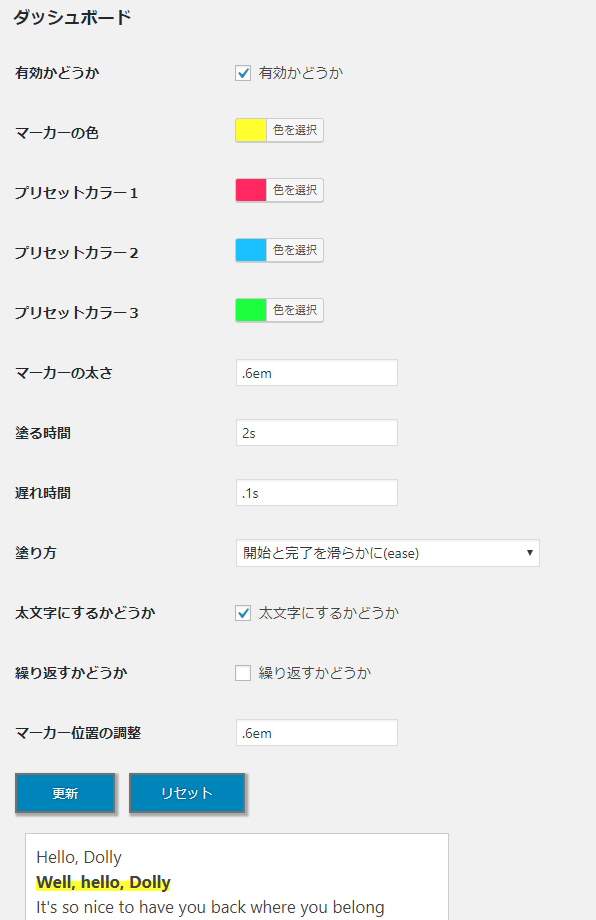
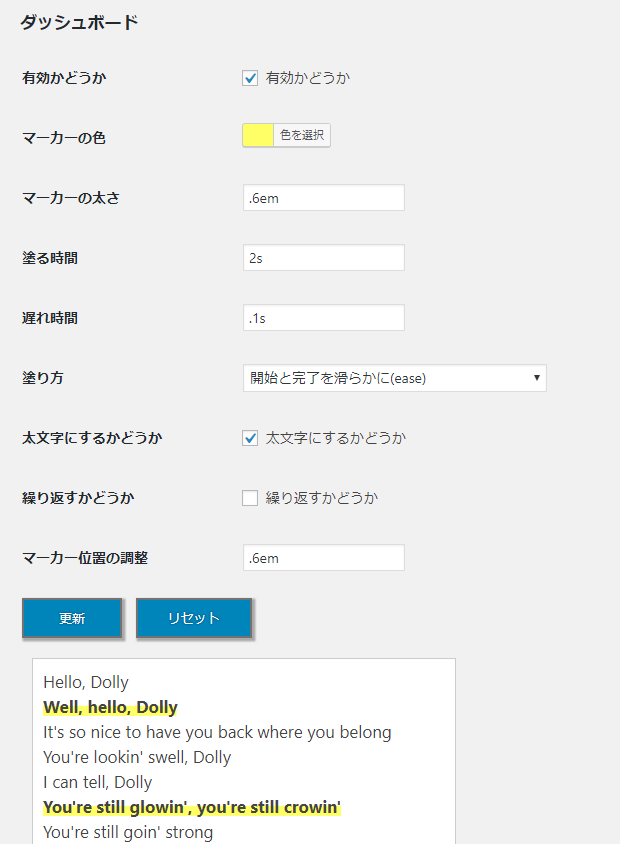
#22 ドキュメント更新

diff --git a/README.md b/README.md
@@ -15,9 +15,15 @@
 
 ![動作](https://raw.githubusercontent.com/technote-space/marker-animation/master/screenshot-1.gif)
 
-- 設定画面
+- デフォルト設定画面
 
-![設定画面](https://raw.githubusercontent.com/technote-space/marker-animation/master/screenshot-2.png)
+![設定画面](https://raw.githubusercontent.com/technote-space/marker-animation/images/.github/images/201901030129.png)
+
+- マーカー設定画面（設定管理）
+
+![一覧画面](https://raw.githubusercontent.com/technote-space/marker-animation/images/.github/images/201901030132.png)
+
+![設定画面](https://raw.githubusercontent.com/technote-space/marker-animation/images/.github/images/201901030135.png)
 
 - 投稿編集画面
 
@@ -25,22 +31,39 @@
 
 ![アニメーションOFF](https://raw.githubusercontent.com/technote-space/marker-animation/master/screenshot-4.gif)
 
-![プリセットカラー](https://raw.githubusercontent.com/technote-space/marker-animation/master/screenshot-5.gif)
+![ボタン設定の使用](https://raw.githubusercontent.com/technote-space/marker-animation/images/.github/images/201901030420.gif)
+
+![メニュー設定の使用](https://raw.githubusercontent.com/technote-space/marker-animation/images/.github/images/201901030421.gif)
 
 ## 要件
 - PHP 5.6 以上
 - WordPress 3.9.3 以上
 
 ## 導入手順
-1. ZIPダウンロード  
-2. wp-content/plugins に展開  
-3. 管理画面から有効化  
+1. 管理画面のプラグインから「新規追加」  
+![手順1](https://raw.githubusercontent.com/technote-space/marker-animation/images/.github/images/201901030113.png)  
+2. 「蛍光ペン」で検索し「今すぐインストール」を押下  
+![手順2](https://raw.githubusercontent.com/technote-space/marker-animation/images/.github/images/201901030114.png)
+3. 「有効化」  
 
 ## 使用方法
 1. 投稿画面のエディタでアニメーションを追加したい文章をマウスで選択
 2. マーカーペンアイコンを押下
 3. アニメーションを外したい場合は対象の文にカーソルを合わせた状態でマーカーペンアイコンを押下
-4. マーカーペンアイコンは２つあります。左はデフォルト設定用、右は詳細設定用です。
+
+## コントロールの種類
+### マーカーアニメーションボタン
+デフォルト設定画面で設定した値でマーカーが動作します。
+![ボタン1](https://raw.githubusercontent.com/technote-space/marker-animation/images/.github/images/201901030454.png)
+### マーカーアニメーション(詳細設定)ボタン
+細かく値を指定することができます。
+![ボタン2](https://raw.githubusercontent.com/technote-space/marker-animation/images/.github/images/201901030455.png)
+### マーカー設定で「ボタン表示させるかどうか」を有効にして登録したボタン
+マーカー設定で登録した値（空にした値はデフォルトの値）でマーカーが動作します。
+![ボタン3](https://raw.githubusercontent.com/technote-space/marker-animation/images/.github/images/201901030134.png)
+### マーカー設定で「スタイルメニューに表示させるかどうか」を有効にして登録したメニュー
+マーカー設定で登録した値（空にした値はデフォルトの値）でマーカーが動作します。  
+![メニュー](https://raw.githubusercontent.com/technote-space/marker-animation/images/.github/images/201901030136.png)
 
 ## 設定
 ### 有効かどうか
@@ -49,10 +72,6 @@
 
 ### マーカーの色
 マーカーの色を設定します。
-
-### プリセットカラー
-投稿画面から使用可能な色を設定します。  
-設定したプリセットカラーはスタイルボタンから選択できます。
 
 ### マーカーの太さ
 マーカーの太さを設定します。
